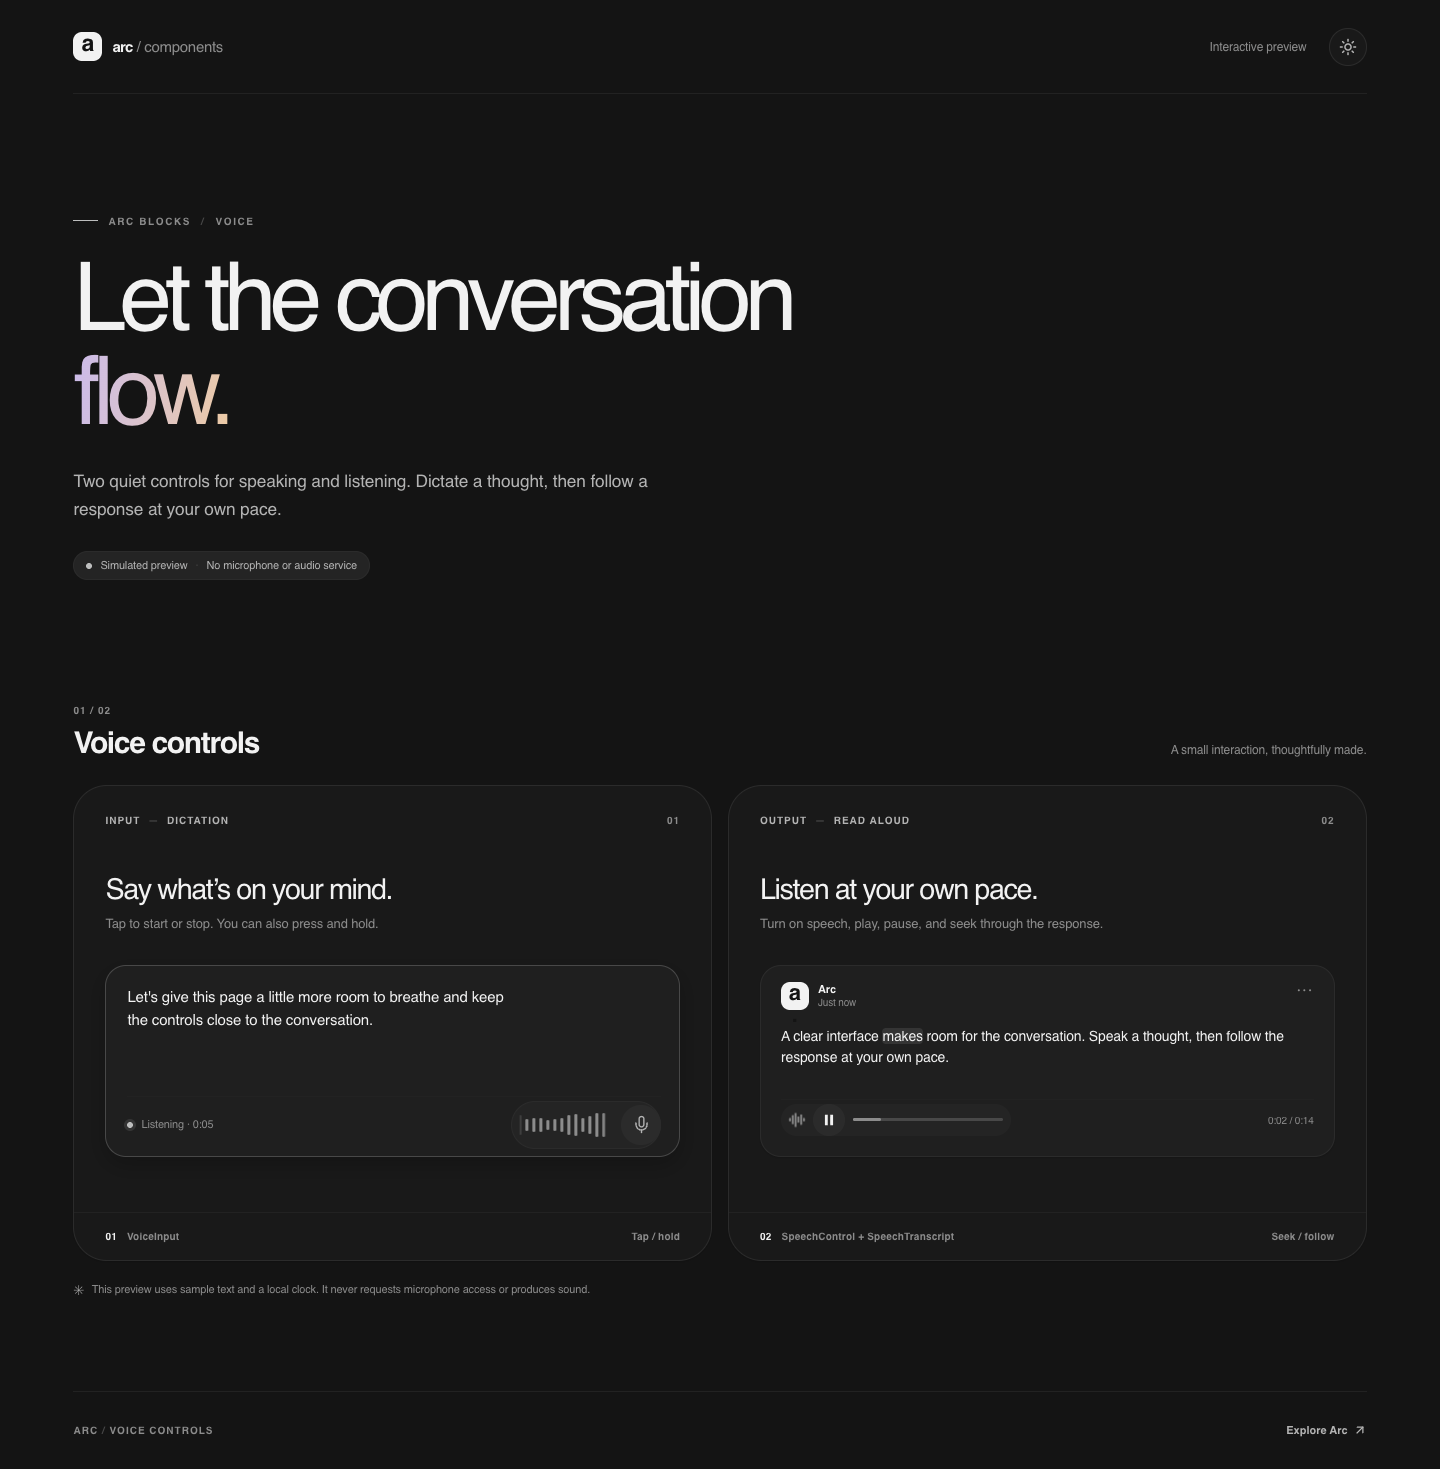
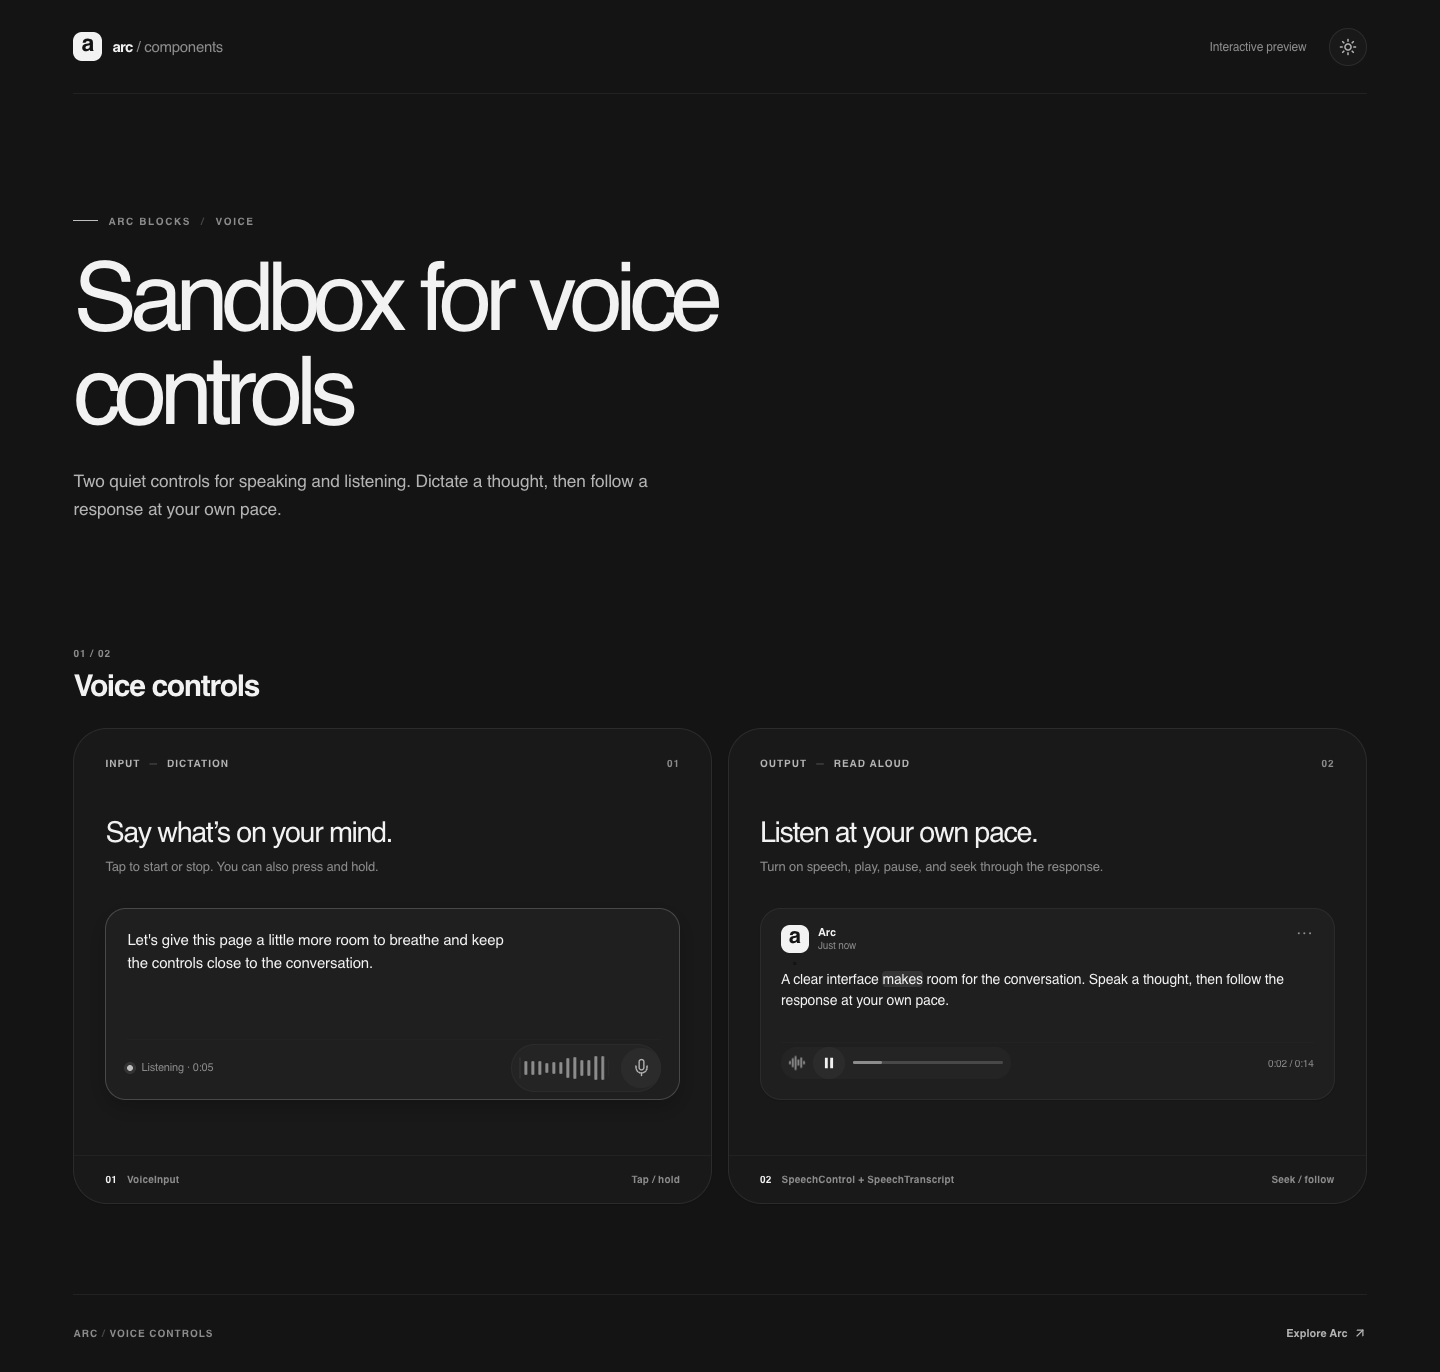
Simplify voice sandbox preview copy

diff --git a/examples/voice-controls/src/styles.css b/examples/voice-controls/src/styles.css
@@ -19,16 +19,11 @@ a { color: inherit; text-decoration: none; }
 .eyebrow-divider { color: var(--border-strong); }
 h1, h2, h3, p { margin: 0; }
 h1 { max-width: 890px; font-family: var(--font-display); font-size: clamp(3.65rem, 6.6vw, 7.3rem); font-weight: 480; line-height: .99; letter-spacing: -.073em; }
-h1 em { font-style: normal; background: var(--arc-gradient-ink); -webkit-background-clip: text; background-clip: text; color: transparent; }
 .intro > p { max-width: 585px; margin-top: 29px; color: var(--text-secondary); font-size: clamp(15px, 1.2vw, 18px); line-height: 1.6; }
-.simulated-label { display: inline-flex; align-items: center; gap: 8px; margin-top: 28px; padding: 8px 12px; border: 1px solid var(--border); border-radius: var(--radius-pill); background: var(--surface-muted); color: var(--text-secondary); font-size: 11px; line-height: 1; }
-.simulated-dot { width: 6px; height: 6px; border-radius: 50%; background: var(--accent); }
-.label-separator { color: var(--border-strong); }
 .showcase { padding-bottom: 90px; }
 .showcase-heading { display: flex; align-items: end; justify-content: space-between; gap: 20px; padding-bottom: 25px; }
 .section-number, .card-kicker, .card-index, .card-foot, .site-footer { color: var(--text-muted); font-size: 10px; font-weight: 600; letter-spacing: .1em; }
 .showcase-heading h2 { margin-top: 7px; font-family: var(--font-display); font-size: clamp(22px, 2.2vw, 30px); font-weight: 520; letter-spacing: -.045em; }
-.showcase-subtitle { padding-bottom: 3px; color: var(--text-muted); font-size: 12px; }
 .demo-grid { display: grid; grid-template-columns: repeat(2, minmax(0, 1fr)); gap: 16px; }
 .demo-card { display: flex; min-width: 0; min-height: 476px; flex-direction: column; overflow: hidden; border: 1px solid var(--border); border-radius: var(--radius-surface); background: var(--surface); box-shadow: var(--shadow-resting); }
 .card-top { display: flex; align-items: center; justify-content: space-between; padding: 28px 31px 0; }
@@ -66,14 +61,12 @@ h1 em { font-style: normal; background: var(--arc-gradient-ink); -webkit-backgro
 .card-foot { display: flex; align-items: center; gap: 10px; min-height: 48px; padding: 0 31px; border-top: 1px solid var(--border-subtle); letter-spacing: .02em; }
 .card-foot span:first-child { color: var(--foreground); font-variant-numeric: tabular-nums; }
 .card-foot span:last-child { margin-left: auto; }
-.demo-note { display: flex; align-items: center; gap: 8px; margin-top: 19px; color: var(--text-muted); font-size: 11px; line-height: 1.5; }
-.note-asterisk { color: var(--accent); font-size: 14px; }
 .site-footer { display: flex; align-items: center; justify-content: space-between; gap: 20px; min-height: 78px; border-top: 1px solid var(--border-subtle); }
 .footer-muted { color: var(--border-strong); }
 .site-footer a { display: inline-flex; align-items: center; gap: 5px; color: var(--text-secondary); font-size: 11px; letter-spacing: 0; }
 .site-footer a:hover { color: var(--foreground); }
 @media (max-width: 900px) { .demo-grid { grid-template-columns: 1fr; } .demo-card { min-height: 430px; } .card-main { padding-top: 36px; } }
-@media (max-width: 600px) { .page { padding: 0 19px; } .site-header { height: 71px; } .header-caption, .brand-light, .showcase-subtitle { display: none; } .intro { padding: 76px 0 78px; } h1 { font-size: clamp(3.3rem, 13vw, 5rem); } .intro > p { margin-top: 21px; } .simulated-label { flex-wrap: wrap; max-width: 100%; line-height: 1.4; } .showcase-heading { padding-bottom: 17px; } .demo-grid { gap: 13px; } .demo-card { min-height: 410px; border-radius: 24px; } .card-top { padding: 25px 22px 0; } .card-main { padding: 39px 22px 26px; } .card-main h3 { font-size: 25px; } .card-foot { padding: 0 22px; font-size: 9px; } .card-foot span:last-child { display: none; } .response { padding-right: 14px; padding-left: 14px; } .response-copy { font-size: 13px; } .response-time { font-size: 9px; } .generation-track { margin-right: -14px; margin-left: -14px; } .demo-note { align-items: start; } .showcase { padding-bottom: 55px; } }
+@media (max-width: 600px) { .page { padding: 0 19px; } .site-header { height: 71px; } .header-caption, .brand-light { display: none; } .intro { padding: 76px 0 78px; } h1 { font-size: clamp(3.3rem, 13vw, 5rem); } .intro > p { margin-top: 21px; } .showcase-heading { padding-bottom: 17px; } .demo-grid { gap: 13px; } .demo-card { min-height: 410px; border-radius: 24px; } .card-top { padding: 25px 22px 0; } .card-main { padding: 39px 22px 26px; } .card-main h3 { font-size: 25px; } .card-foot { padding: 0 22px; font-size: 9px; } .card-foot span:last-child { display: none; } .response { padding-right: 14px; padding-left: 14px; } .response-copy { font-size: 13px; } .response-time { font-size: 9px; } .generation-track { margin-right: -14px; margin-left: -14px; } .showcase { padding-bottom: 55px; } }
 @media (max-width: 400px) {
   .composer-bottom { flex-wrap: wrap; justify-content: flex-end; gap: 3px; padding-top: 9px; }
   .composer-status { flex: 1 0 100%; }

diff --git a/examples/voice-controls/src/App.tsx b/examples/voice-controls/src/App.tsx
@@ -123,13 +123,12 @@ export function App() {
     <main>
       <section className="intro" aria-labelledby="page-title">
         <div className="eyebrow"><span className="eyebrow-line" /> ARC BLOCKS <span className="eyebrow-divider">/</span> VOICE</div>
-        <h1 id="page-title">Let the conversation <em>flow.</em></h1>
+        <h1 id="page-title">Sandbox for voice controls</h1>
         <p>Two quiet controls for speaking and listening. Dictate a thought, then follow a response at your own pace.</p>
-        <span className="simulated-label"><span className="simulated-dot" /> Simulated preview <span className="label-separator">·</span> No microphone or audio service</span>
       </section>
 
       <section className="showcase" aria-label="Voice controls demo">
-        <div className="showcase-heading"><div><span className="section-number">01 / 02</span><h2>Voice controls</h2></div><span className="showcase-subtitle">A small interaction, thoughtfully made.</span></div>
+        <div className="showcase-heading"><div><span className="section-number">01 / 02</span><h2>Voice controls</h2></div></div>
         <div className="demo-grid">
           <article className="demo-card compose-card">
             <div className="card-top"><span className="card-kicker">INPUT <span>—</span> DICTATION</span><span className="card-index">01</span></div>
@@ -162,7 +161,6 @@ export function App() {
             <div className="card-foot"><span>02</span><span>SpeechControl + SpeechTranscript</span><span>Seek / follow</span></div>
           </article>
         </div>
-        <p className="demo-note"><span className="note-asterisk">✳</span> This preview uses sample text and a local clock. It never requests microphone access or produces sound.</p>
       </section>
     </main>
 

diff --git a/examples/voice-controls/index.html b/examples/voice-controls/index.html
@@ -3,7 +3,7 @@
   <head>
     <meta charset="UTF-8" />
     <meta name="viewport" content="width=device-width, initial-scale=1.0" />
-    <title>Voice controls · Arc preview</title>
+    <title>Sandbox for voice controls</title>
     <meta name="description" content="A simulated, interactive preview of the Arc voice controls block." />
   </head>
   <body>
